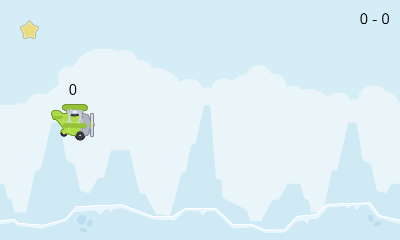
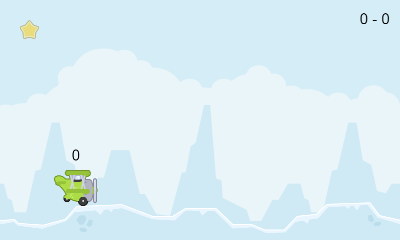
animate

Changed region(s): [[0.12, 0.35, 0.24, 0.5833], [0.12, 0.7, 0.27, 0.875], [0.18, 0.6125, 0.21, 0.6708]]

diff --git a/loop/engine/libraries/math.js b/loop/engine/libraries/math.js
@@ -299,35 +299,35 @@ function size(x) {
  * @private
  */
 
-function _validate(array, size, dim) {
-  var i;
-  var len = array.length;
+function _validate(array, size, dim) { // MIGUEL
+  // var i;
+  // var len = array.length;
 
-  if (len !== size[dim]) {
-    throw new _error_DimensionError__WEBPACK_IMPORTED_MODULE_2___default.a(len, size[dim]);
-  }
+  // if (len !== size[dim]) {
+  //   throw new _error_DimensionError__WEBPACK_IMPORTED_MODULE_2___default.a(len, size[dim]);
+  // }
 
-  if (dim < size.length - 1) {
-    // recursively validate each child array
-    var dimNext = dim + 1;
+  // if (dim < size.length - 1) {
+  //   // recursively validate each child array
+  //   var dimNext = dim + 1;
 
-    for (i = 0; i < len; i++) {
-      var child = array[i];
+  //   for (i = 0; i < len; i++) {
+  //     var child = array[i];
 
-      if (!Array.isArray(child)) {
-        throw new _error_DimensionError__WEBPACK_IMPORTED_MODULE_2___default.a(size.length - 1, size.length, '<');
-      }
+  //     if (!Array.isArray(child)) {
+  //       throw new _error_DimensionError__WEBPACK_IMPORTED_MODULE_2___default.a(size.length - 1, size.length, '<');
+  //     }
 
-      _validate(array[i], size, dimNext);
-    }
-  } else {
-    // last dimension. none of the childs may be an array
-    for (i = 0; i < len; i++) {
-      if (Array.isArray(array[i])) {
-        // MIGUEL --- throw new _error_DimensionError__WEBPACK_IMPORTED_MODULE_2___default.a(size.length + 1, size.length, '>');
-      }
-    }
-  }
+  //     _validate(array[i], size, dimNext);
+  //   }
+  // } else {
+  //   // last dimension. none of the childs may be an array
+  //   for (i = 0; i < len; i++) {
+  //     if (Array.isArray(array[i])) {
+  //       throw new _error_DimensionError__WEBPACK_IMPORTED_MODULE_2___default.a(size.length + 1, size.length, '>');
+  //     }
+  //   }
+  // }
 }
 /**
  * Validate whether each element in a multi dimensional array has

diff --git a/loop/engine/Engine.js b/loop/engine/Engine.js
@@ -41,7 +41,7 @@ class Engine {
         this.currentTime = newTime;
     }
 
-    spawnObject(gameObject, x, y, angle) {
+    spawn(gameObject, x, y, angle) {
         var spawnName = gameObject.name + Utils.id();
         var spawnObject = new GameObject(this.gameObjects.get(gameObject.actor.name).actor, spawnName);
         spawnObject = Object.assign(spawnObject, { "x": x, "y": y, "angle": angle, "sleeping": false });
@@ -50,13 +50,13 @@ class Engine {
         this.render.stage.addChild(spawnObject.container);
     }
 
-    deleteObject(actorName) {
+    delete(actorName) {
         this.render.stage.removeChild(this.gameObjects.get(actorName).container);
         this.gameObjects.delete(actorName);
         delete this.scope[actorName];
     }
 
-    checkTimer(gameObject, id, expression) {
+    timer(gameObject, id, expression) {
         var lostFlow = ((gameObject.timers[id].previousTime - gameObject.timers[id].time) > 0);
         var secReached = (gameObject.timers[id].time >= gameObject.timers[id].seconds * 1000);
         if (lostFlow || secReached) {
@@ -68,5 +68,15 @@ class Engine {
             gameObject.timers[id].previousTime = gameObject.timers[id].time;
             return (false);
         }
+    }
+
+    animate(gameObject, id, animation, fps) {
+        var secuence = animation.split(",");
+        var frames = secuence.length;
+        var dtAnim = 1000 / fps;
+        if (gameObject.timers[id].time + this.dt < 1000) gameObject.timers[id].time += this.dt;
+        else gameObject.timers[id].time = 0;
+        var frame = gameObject.timers[id].time / dtAnim;
+        gameObject.image = secuence[Math.floor(frame % secuence.length)];
     }
 }

diff --git a/loop/engine/Rule.js b/loop/engine/Rule.js
@@ -32,15 +32,16 @@ class Rule {
     }
 
     Spawn(params) {
-        return ("Engine.spawnObject(" + params.actor + ",Me.x+" + params.x + ",Me.y +" + params.y + ",Me.angle+" + params.angle + ")");
+        return ("Engine.spawn(" + params.actor + ",Me.x+" + params.x + ",Me.y +" + params.y + ",Me.angle+" + params.angle + ")");
     }
 
     Delete() {
-        return ("Engine.deleteObject(Me.name)");
+        return ("Engine.delete(Me.name)");
     }
 
     Animate(params) {
-        //  return("Engine.animation(Me.name,"+params.animation+","+params.fps);
+        var timer = new Timer (this.gameObject,1); // animate each second
+        return ("Engine.animate("+this.gameObject.name+",'"+timer.id+"','" + params.animation + "'," + params.fps + ")");
     }
 
     Move(params) {
@@ -92,10 +93,8 @@ class Rule {
     }
 
     Timer(params, nodeListTrue, nodeListFalse) {
-        var id = 1;
-        if (!this.gameObject.timers) this.gameObject.timers = {}; // create timers if doesn't exist
-        var timer = new Object({ "time": 0.0, "previousTime": 0.0, seconds: math.eval(params.seconds) });
-        this.gameObject.timers[id] = timer;
-        return ("[Engine.checkTimer(" + this.gameObject.name + ",'" + id + "','" + params.seconds + "') ? " + this.parseNodeList(nodeListTrue) + " : " + this.parseNodeList(nodeListFalse) + "]");
+        var timer = new Timer(this.gameObject, math.eval(params.seconds));
+        return ("[Engine.timer(" + this.gameObject.name + ",'" + timer.id + "','" + params.seconds + "') ? " + this.parseNodeList(nodeListTrue) + " : " + this.parseNodeList(nodeListFalse) + "]");
     }
 }
+

diff --git a/loop/engine/GameObject.js b/loop/engine/GameObject.js
@@ -69,11 +69,12 @@ class GameObject {
 
     get image() { return this.container.sprite.image };
     set image(value) {
+        //console.log("change ",value,this.container.sprite.image);
         if (value != this.container.sprite.image) {
             this.container.removeChild(this.container.sprite);
             this.actor.image = value;
-            const sprite = new Sprite(this.actor);
-            this.container.addChildAt(sprite, 0);
+            this.container.sprite = new Sprite(this.actor);
+            this.container.addChildAt(this.container.sprite, 0);
         }
     };
 

diff --git a/loop/engine/Sprite.js b/loop/engine/Sprite.js
@@ -8,7 +8,7 @@ class Sprite {
         const sprite = new PIXI.TilingSprite();
         sprite.visible = actor.spriteOn;
         sprite.image = actor.image;
-        if (existsImage) sprite.texture = player.file.loader.resources[actor.image].texture;
+        if (existsImage) sprite.texture = player.file.loader.resources[sprite.image].texture;
         else {
             sprite.texture=PIXI.Texture.WHITE;
             sprite.texture.orig= new PIXI.Rectangle(0,0,50,50);

diff --git a/loop/engine/Timer.js b/loop/engine/Timer.js
@@ -1,0 +1,8 @@
+class Timer {
+    constructor(gameObject, seconds) {
+        this.id = Utils.id();
+        if (!gameObject.timers) gameObject.timers = {}; // create timers if doesn't exist
+        var timer = new Object({ "time": 0.0, "previousTime": 0.0, "seconds": seconds });
+        gameObject.timers[this.id] = timer;
+    }
+}

diff --git a/loop/engine/index.php b/loop/engine/index.php
@@ -55,12 +55,13 @@
         <script src="Audio.js"></script>
         <script src="Render.js"></script>
 		<script src="Engine.js"></script>
-
+		
 		<script src="GameObject.js"></script>
 		<script src="Container.js"></script>
 		<script src="Sprite.js"></script>
 		<script src="Text.js"></script>
 		<script src="Rule.js"></script>
+		<script src="Timer.js"></script>
 
 
 		<script>
